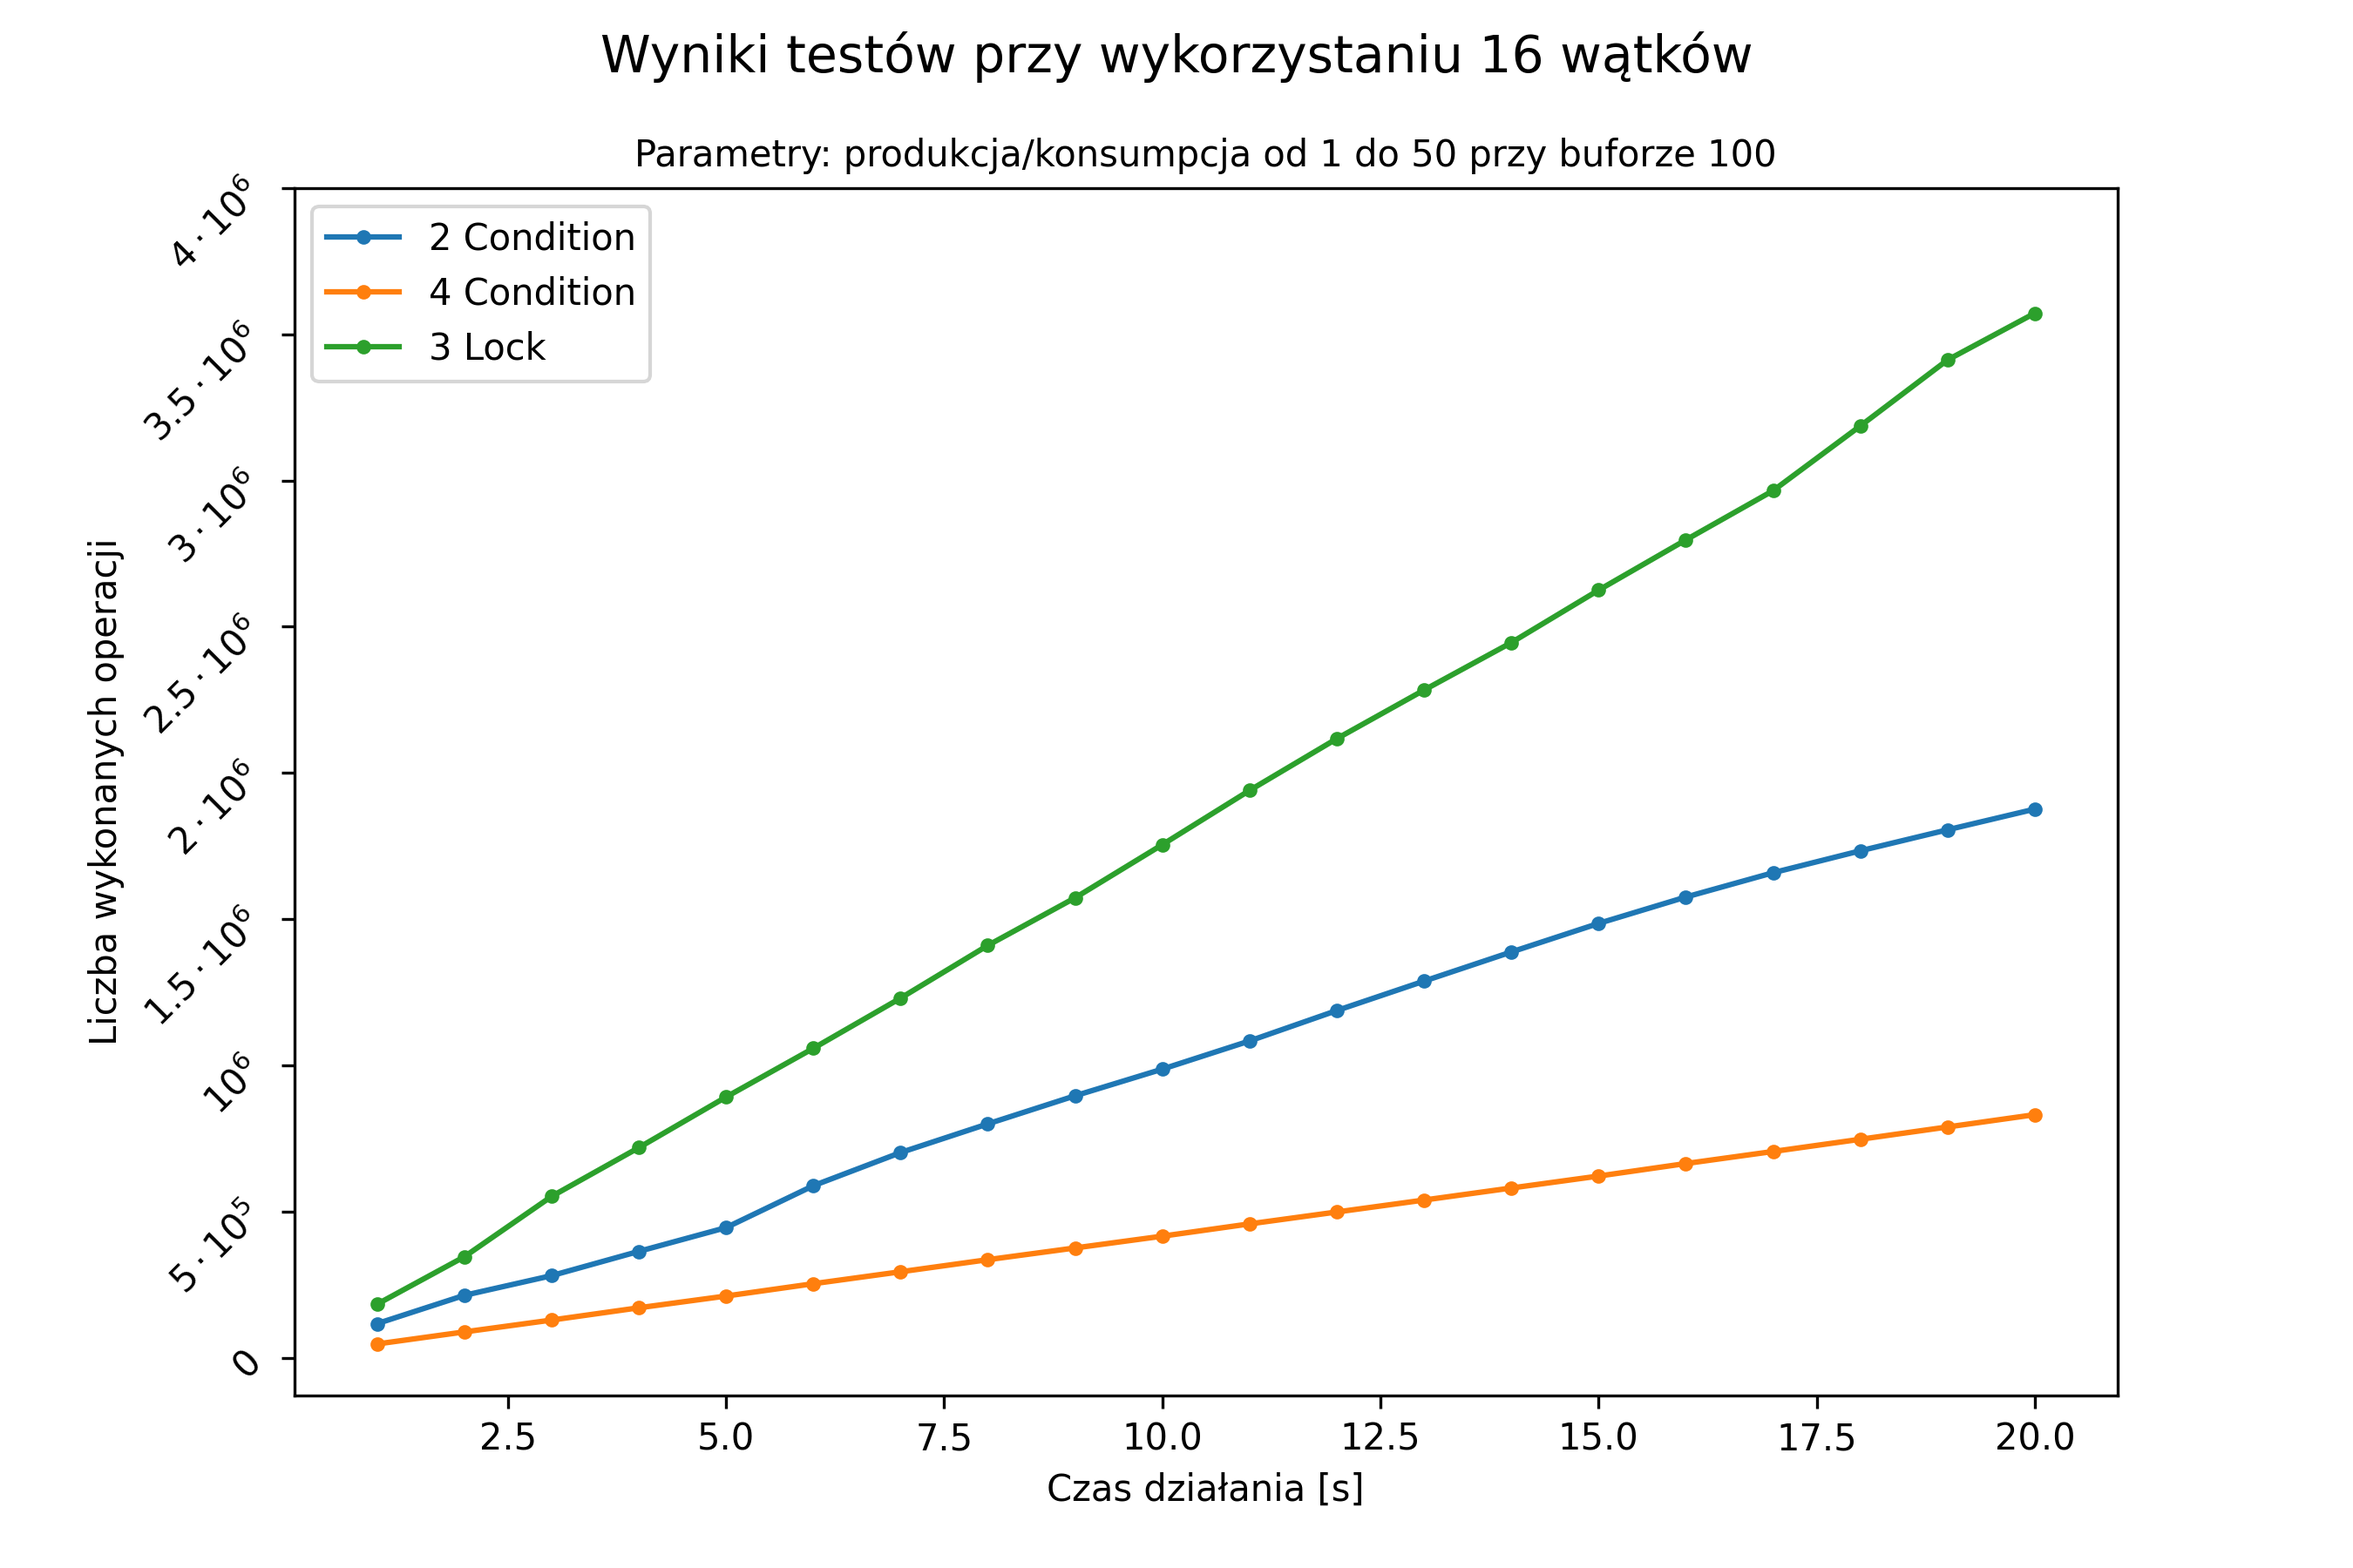
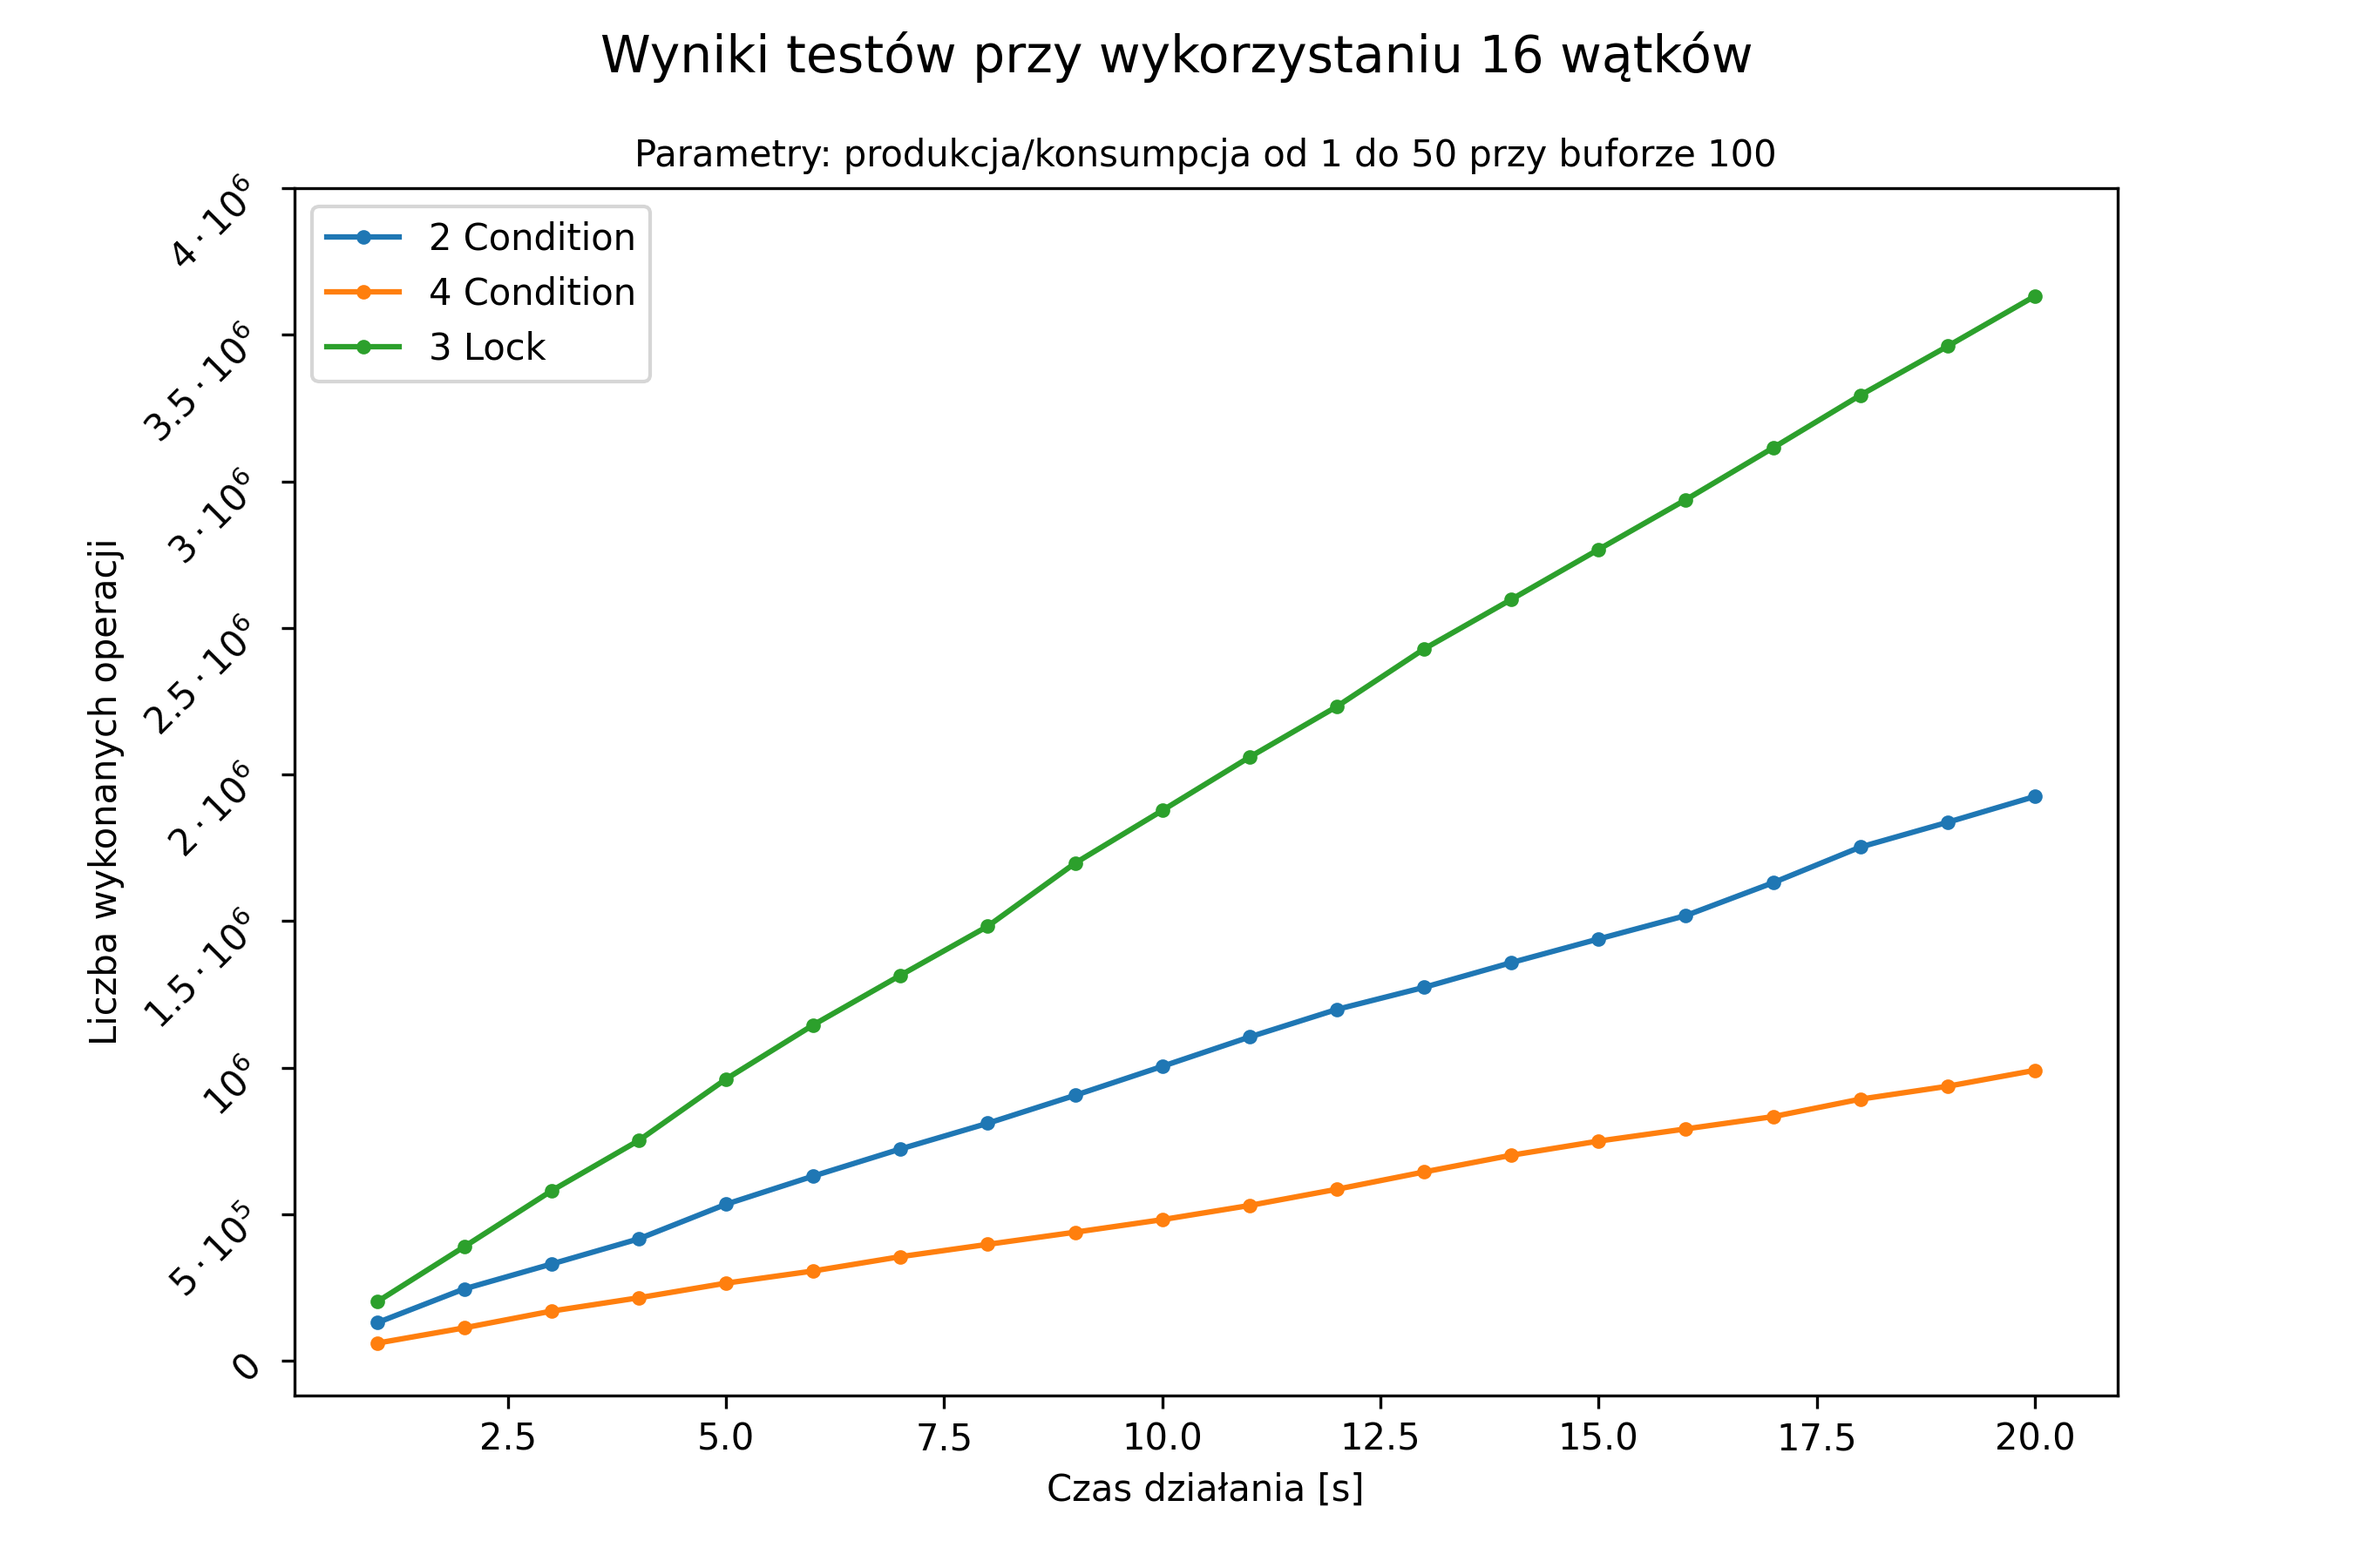
Fix benchmarking mistakes, rerun all benchmarks

diff --git a/src/main/java/org/concurrent_computing/pkb/Main.java b/src/main/java/org/concurrent_computing/pkb/Main.java
@@ -70,7 +70,8 @@ public class Main {
         }
 
         for (int i = 0; i < threads; i++) {
-            producersAndConsumers[i].interrupt();
+            producersAndConsumers[2 * i].interrupt();
+            producersAndConsumers[2 * i + 1].interrupt();
         }
 
         // aby dac chwile czasu na wykonanie instrukcji z producersAndConsumers[i].interrupt();

diff --git a/src/main/java/org/concurrent_computing/pkb/Buffer2Cond.java b/src/main/java/org/concurrent_computing/pkb/Buffer2Cond.java
@@ -42,8 +42,8 @@ public class Buffer2Cond extends Buffer {
     }
 
     public void give(int quantity) {
+        this.lock.lock();
         try {
-            this.lock.lock();
             while (this.hasNoSpaceFor(quantity)) this.producersCondition.await();
             this.buffer += quantity;
             this.operationCount++;
